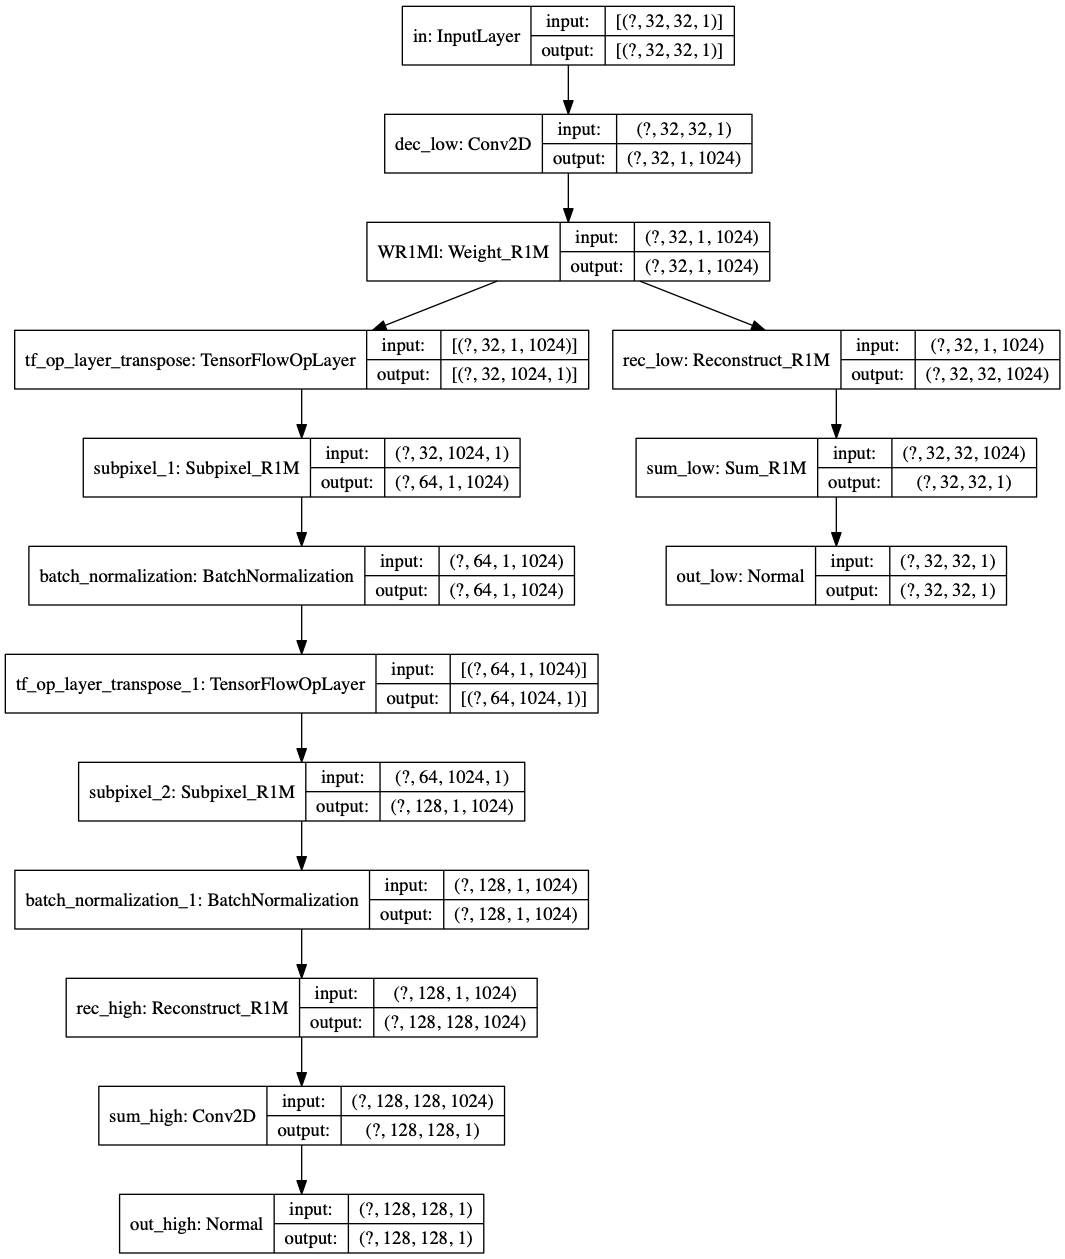
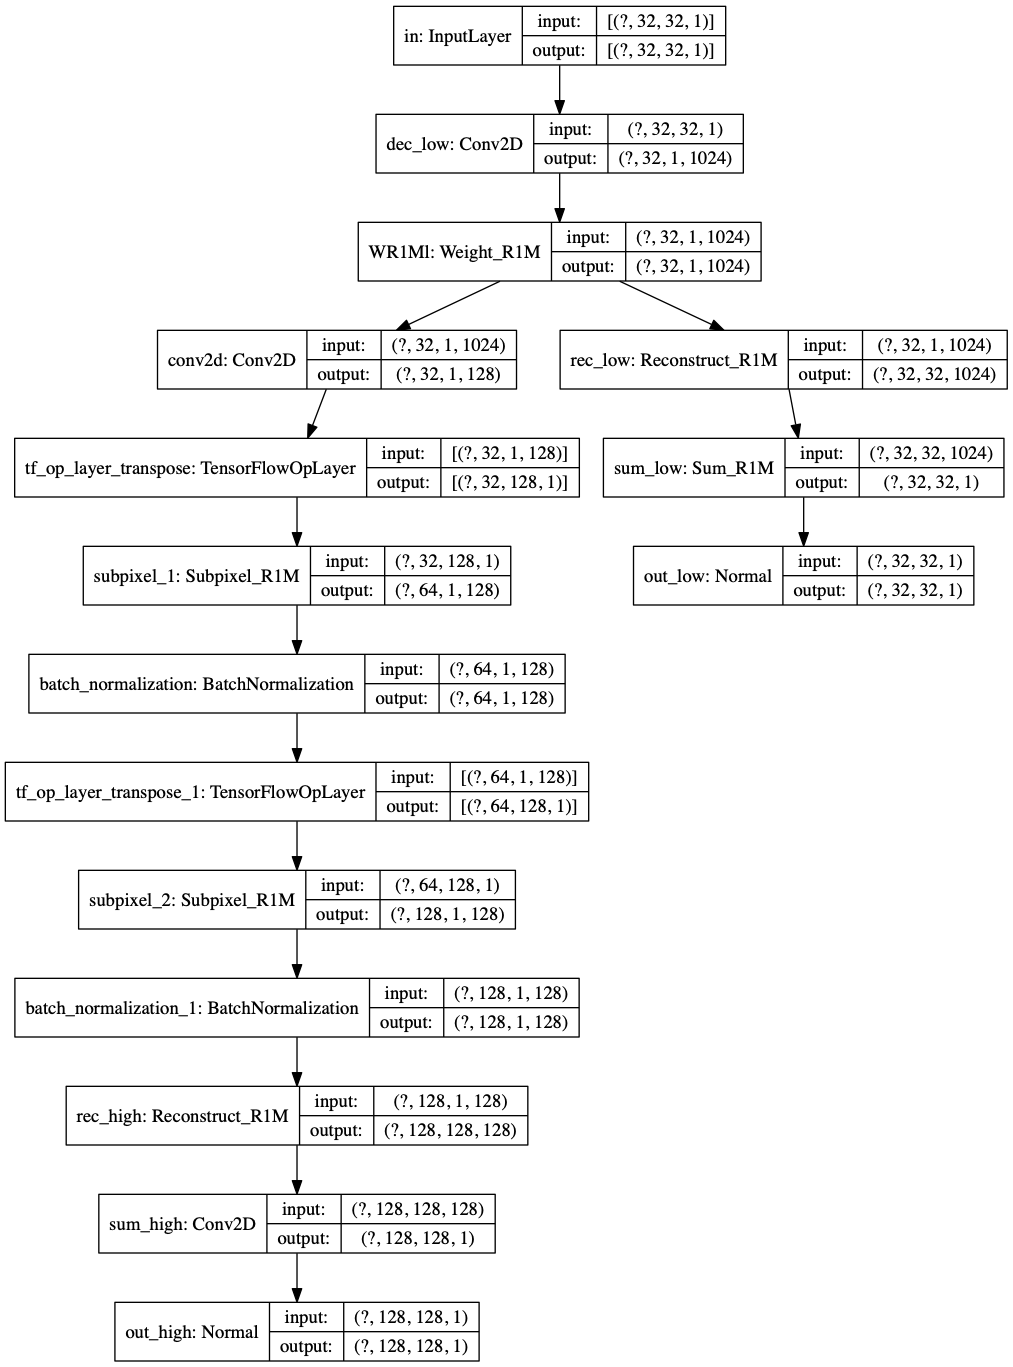
new model subpixel 1D

Changed region(s): [[0.0, 0.0, 1.0, 1.0]]

diff --git a/model.py b/model.py
@@ -127,14 +127,13 @@ class Subpixel_R1M(tf.keras.layers.Conv2D):
         #Keras backend does not support tf.split, so in future versions this could be nicer
         X = [X[:,i,:,:,:] for i in range(a)] # a, [bsize, b, r0, c/(r0)]
         X = tf.keras.backend.concatenate(X, axis=2)  # bsize, b, a*r0, c/(r0)
-        X = tf.transpose(X, perm=[0,2,1,3])
         return X
 
     def call(self, inputs): #after transpose input size: [bsize, H, W, C], C=1, 
         output_conv = super(Subpixel_R1M, self).call(inputs)  #[bsize, H, C, 1] --> [bsize, H, C_in, C_out]
         output = self._phase_shift(output_conv)
         output = tf.reduce_sum(output, axis = -1, keepdims=True)
-        output = tf.transpose(output, perm=[0,1,3,2]) #[bsize, H, W, C_out], W=1
+        output = tf.transpose(output, perm=[0,2,3,1]) #[bsize, H, W, C_out], W=1
         return output
 
     def compute_output_shape(self, input_shape):
@@ -209,25 +208,28 @@ def make_generator_model(len_low_size=16, scale=4):
     Suml = Sum_R1M(name='sum_low')(Recl)
     low_out = Normal(len_low_size, name='out_low')(Suml)
 
-    '''up_o = tf.keras.layers.UpSampling2D(size=(4, 4), data_format='channels_last', name='up_in')(In)
-    m_F = tf.constant(1/16.0, shape=(1, 1, 1, 1))
-    up_o = tf.keras.layers.Multiply(name='scale_value_in')([up_o, m_F])'''
 
-    inputs_trans = tf.transpose(WeiR1Ml, perm=[0,1,3,2])
-    trans_1 = Subpixel_R1M(filters= int(32), kernel_size=(3,1), r=2, 
+    inputs_trans = tf.keras.layers.Conv2D(128, kernel_size=(1,1),
+                                    strides=(1,1), padding='same',
+                                    data_format="channels_last",
+                                    kernel_constraint=tf.keras.constraints.NonNeg(),
+                                    activation='relu', use_bias=False)(WeiR1Ml)
+
+    inputs_trans = tf.transpose(inputs_trans, perm=[0,1,3,2])
+    trans_1 = Subpixel_R1M(filters= int(128), kernel_size=(3,1), r=2, 
                         activation='relu', use_bias=False, padding='same', 
                         kernel_initializer=tf.keras.initializers.RandomNormal(mean=0.01, stddev=0.1), 
                         name='subpixel_1')(inputs_trans)
     batchnorm = tf.keras.layers.BatchNormalization()(trans_1)
 
     inputs_trans = tf.transpose(batchnorm, perm=[0,1,3,2])
-    trans_2 = Subpixel_R1M(filters= int(32), kernel_size=(3,1), r=2, 
+    trans_2 = Subpixel_R1M(filters= int(128), kernel_size=(3,1), r=2, 
                         activation='relu', use_bias=False, padding='same', 
                         kernel_initializer=tf.keras.initializers.RandomNormal(mean=0.01, stddev=0.1), 
                         name='subpixel_2')(inputs_trans)
     batchnorm = tf.keras.layers.BatchNormalization()(trans_2)
 
-    Rech = Reconstruct_R1M(1024, name='rec_high')(batchnorm)
+    Rech = Reconstruct_R1M(128, name='rec_high')(batchnorm)
     Sumh = tf.keras.layers.Conv2D(filters=1, kernel_size=(1,1),
                                     strides=(1,1), padding='same',
                                     data_format="channels_last",
@@ -332,6 +334,7 @@ def train_step_generator(Gen, Dis, imgl, imgr, loss_filter, loss_weights, opts, 
 
         disc_generated_output = Dis(fake_hic_h, training=False)
         gen_high_v = []
+        gen_high_v += Gen.get_layer('conv2d').trainable_variables
         gen_high_v += Gen.get_layer('subpixel_1').trainable_variables
         gen_high_v += Gen.get_layer('batch_normalization').trainable_variables
         gen_high_v += Gen.get_layer('subpixel_2').trainable_variables
